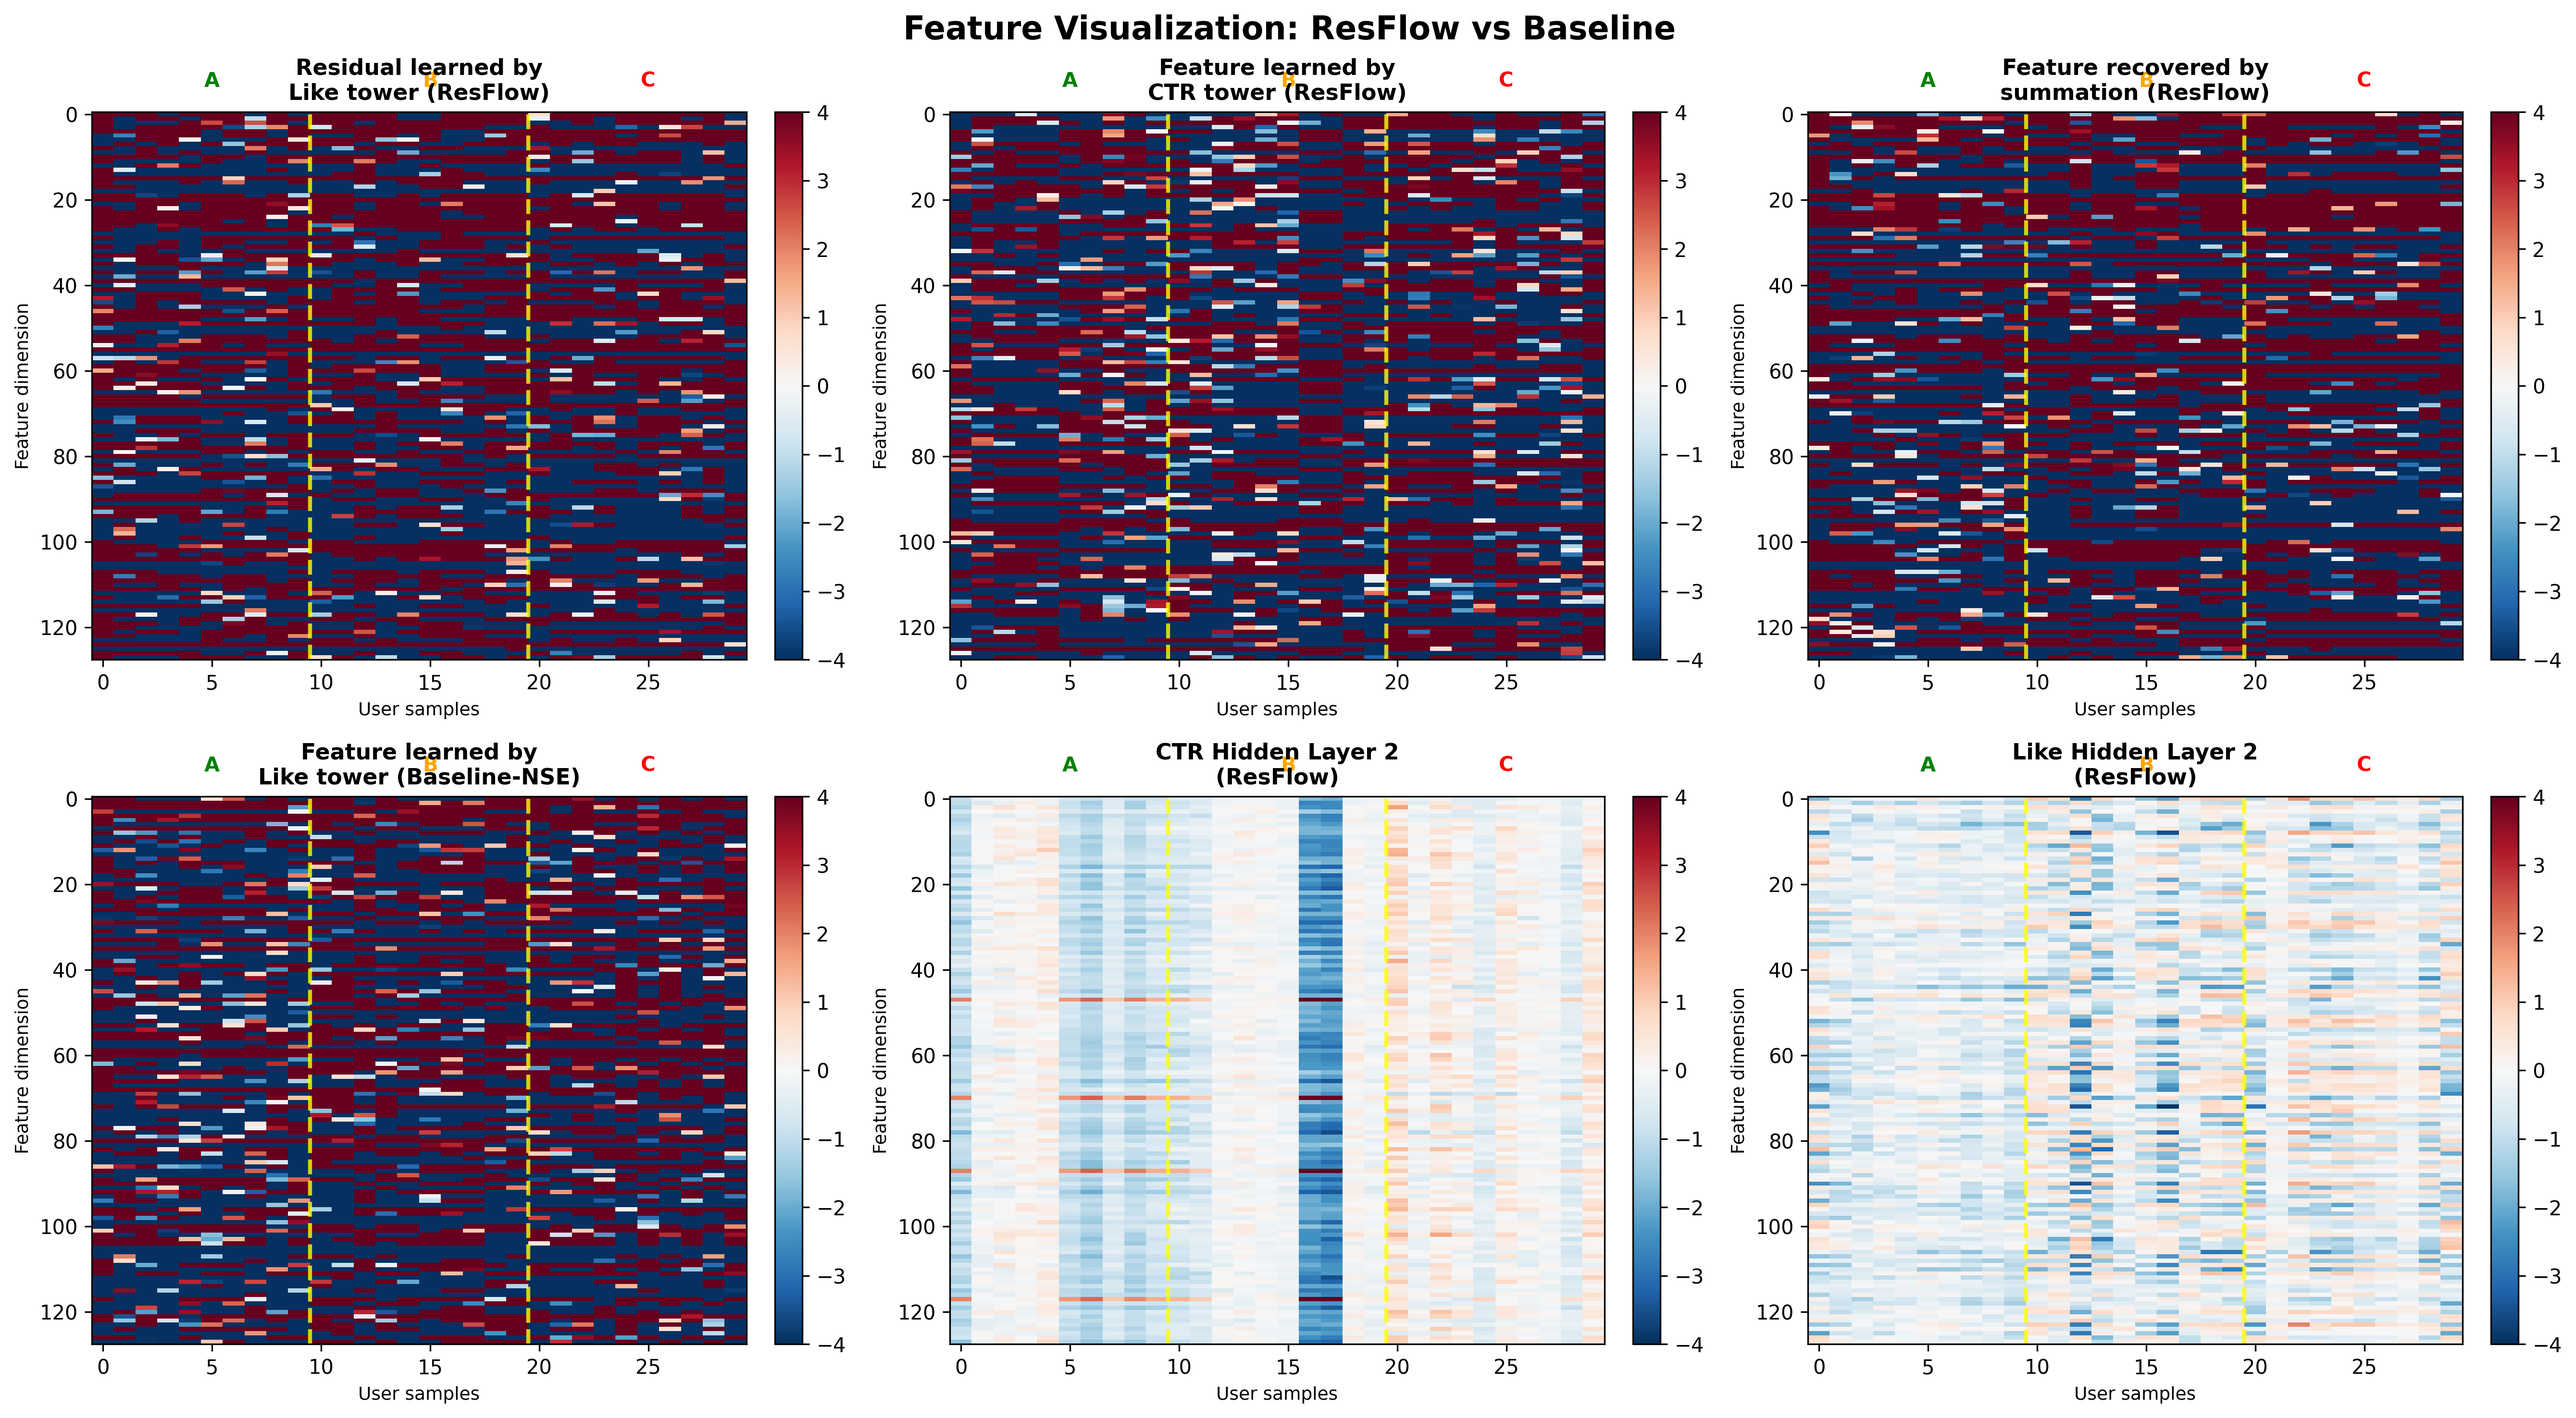
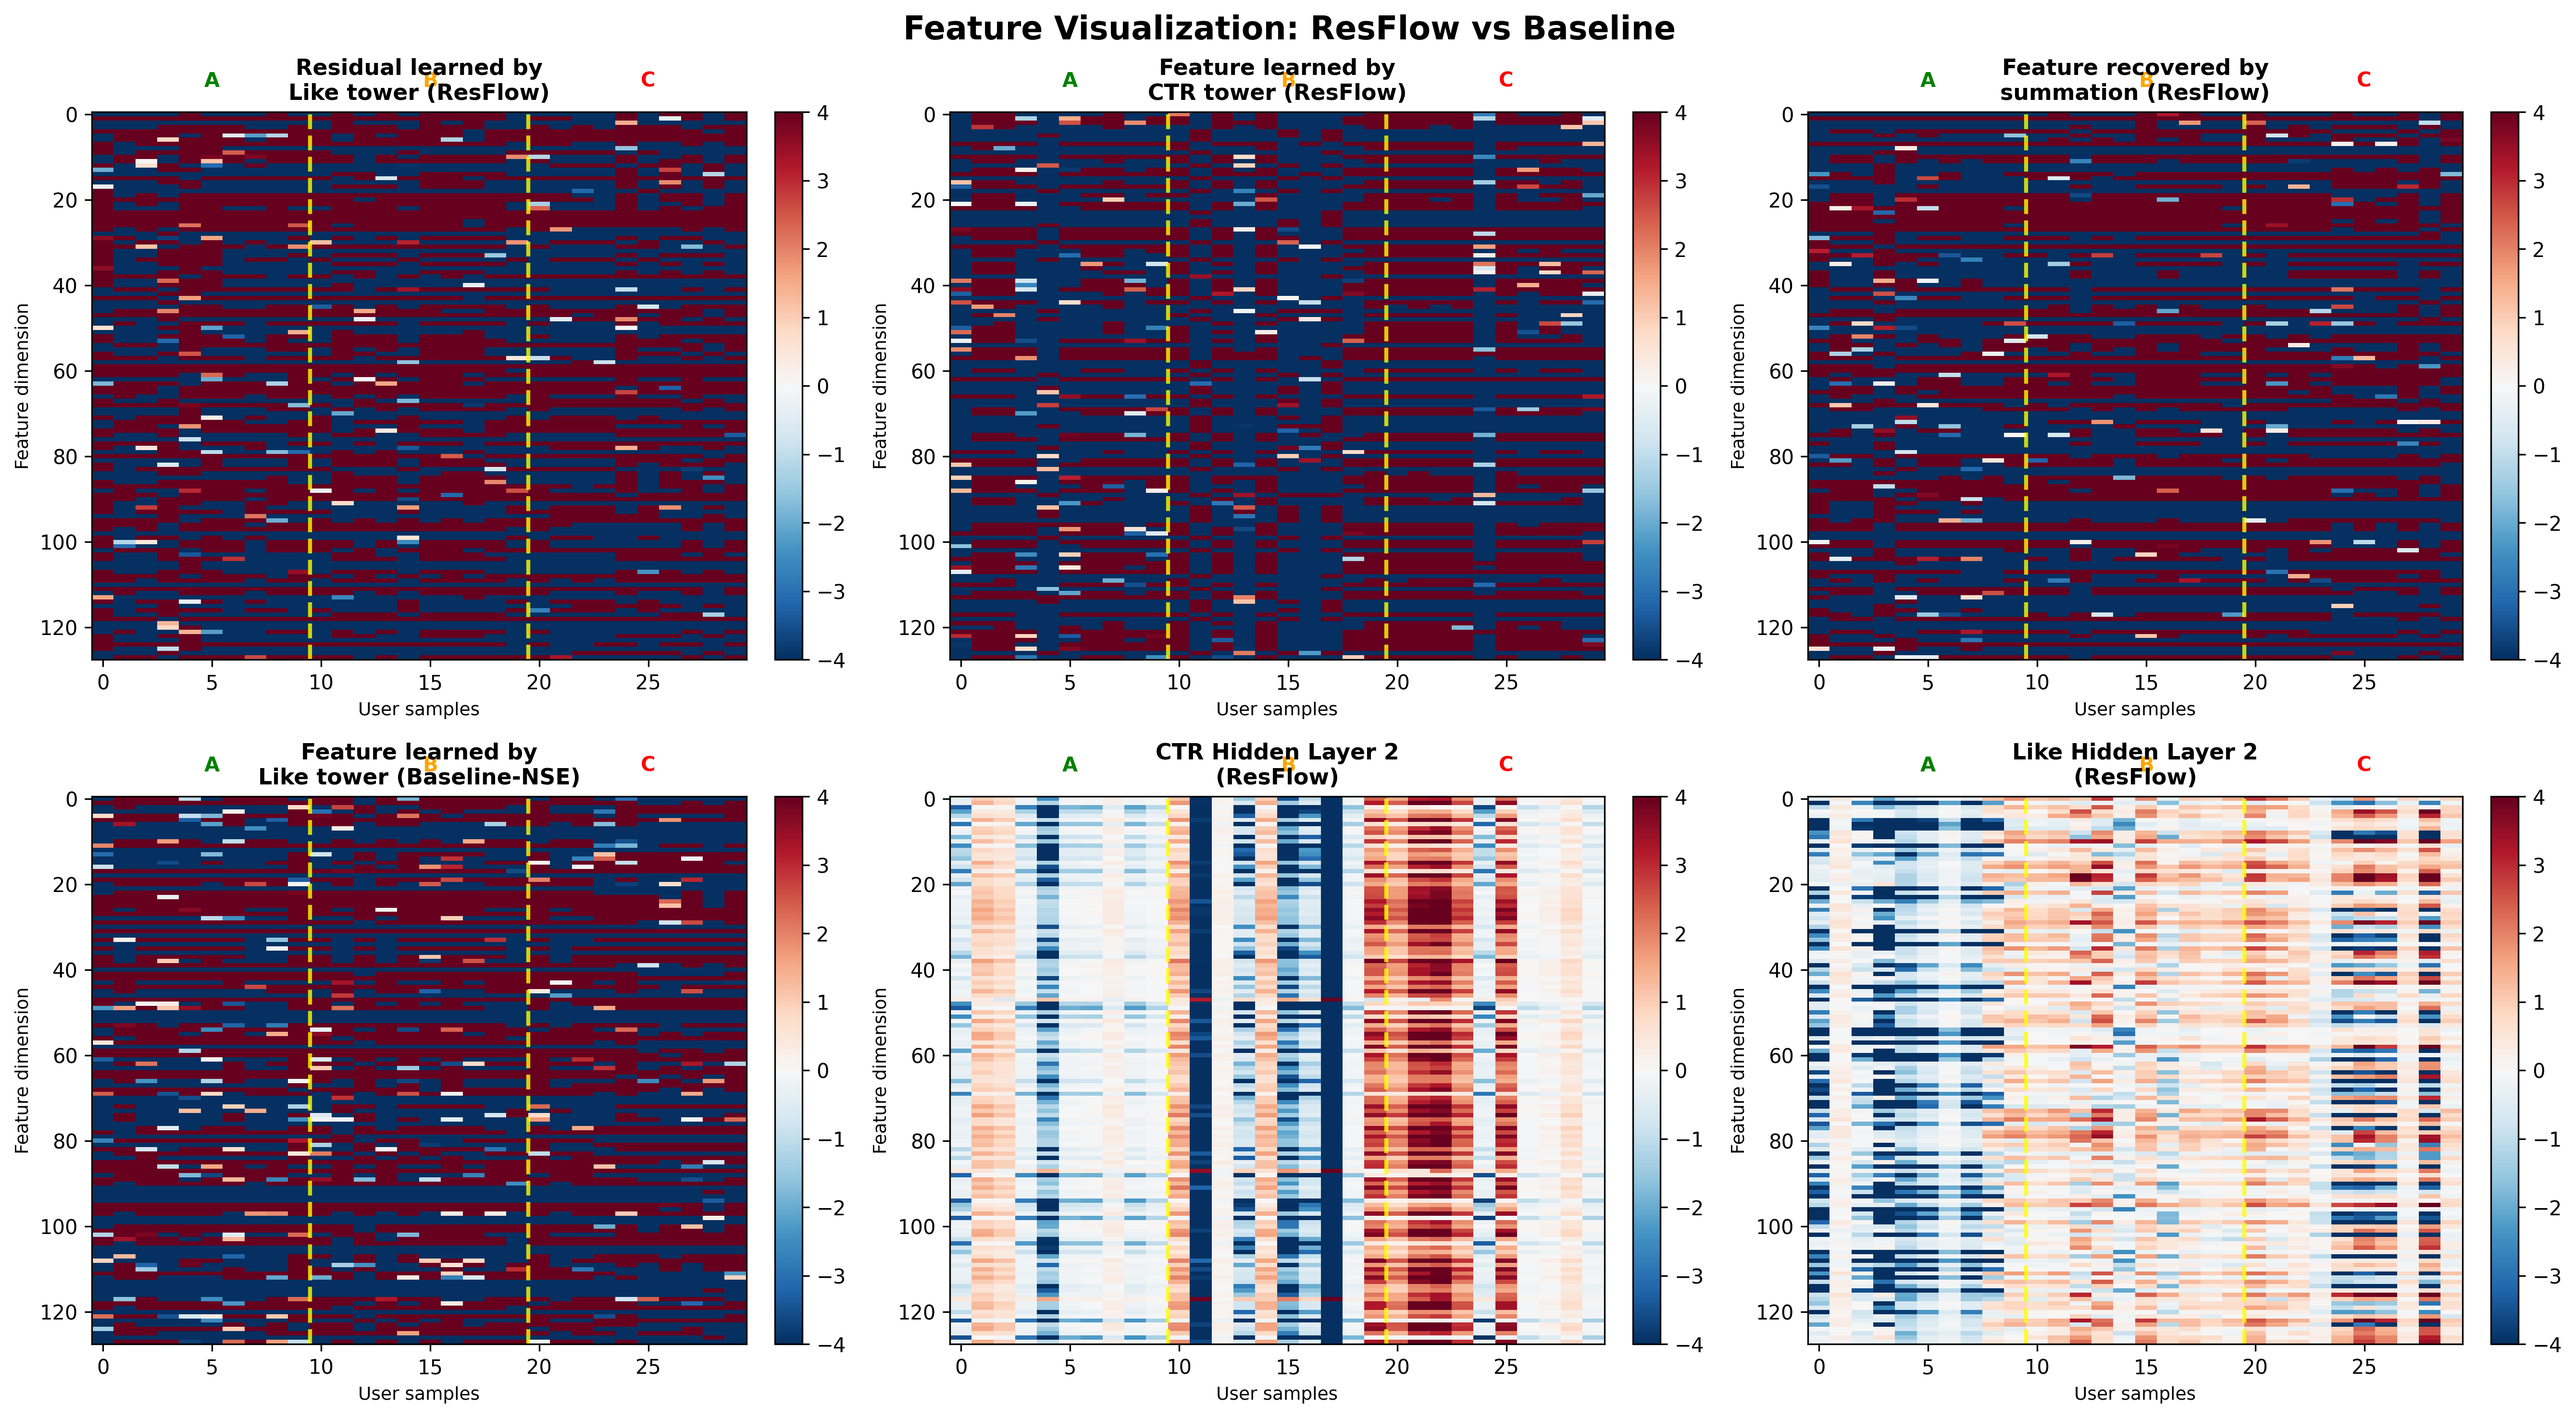
fix

diff --git a/main.py b/main.py
@@ -835,7 +835,8 @@ if __name__ == "__main__":
             print("="*70)
             
             # 当前模型就是 ResFlow 模型
-            resflow_model = model
+            raw_model = model.module if hasattr(model, 'module') else model
+            resflow_model = raw_model  # 使用解包后的模型
             resflow_model.eval()
             
             # 构建 baseline 模型文件路径

diff --git a/resflow_experiments.py b/resflow_experiments.py
@@ -4,7 +4,7 @@ import subprocess
 import time
 
 base_cmd = [
-    "torchrun", "--nproc_per_node=2", "main.py",
+    "torchrun", "--nproc_per_node=1", "main.py",
     "--task_name", "mtl",
     "--dataset_path", "data/Tenrec/ctr_data_1M.csv",
     "--train_batch_size", "8192",
